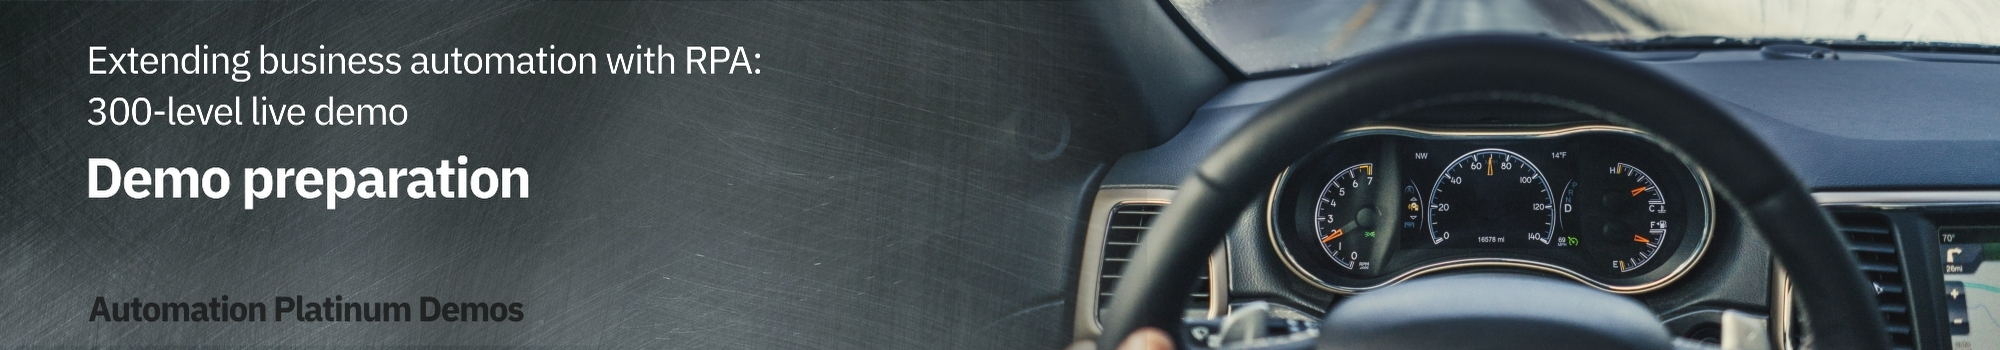
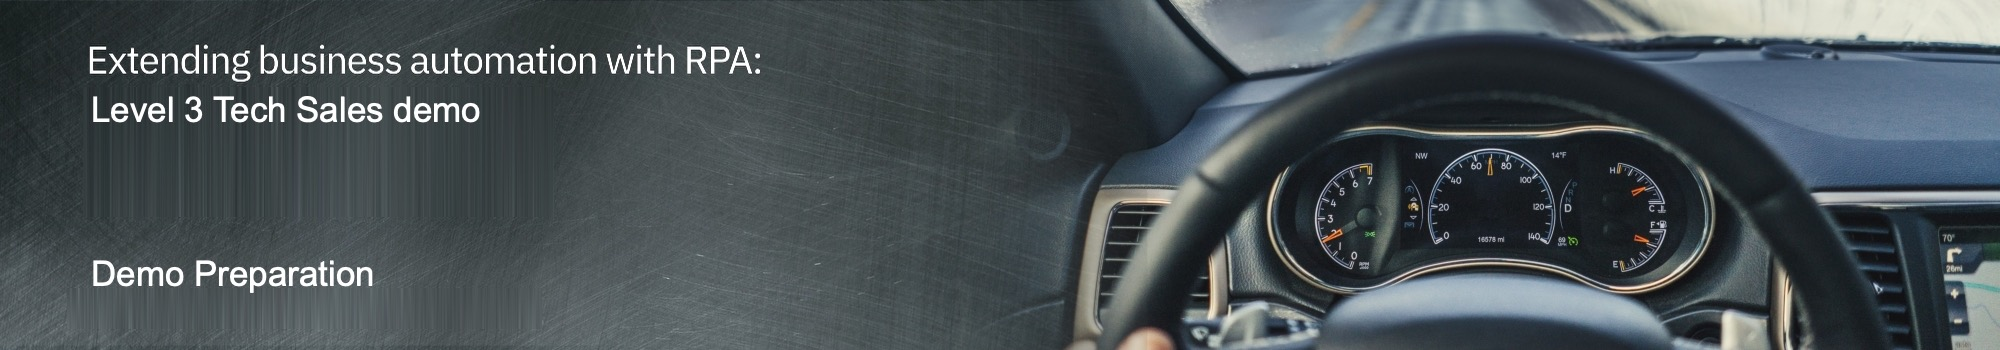
300-Level to Tech Sales Level 3

Changed region(s): [[0.031, 0.7429, 0.279, 0.9429], [0.031, 0.4571, 0.279, 0.6], [0.031, 0.2571, 0.248, 0.3714]]

diff --git a/docs/300-business-automation-extending-ba-with-rpa/demo-preparation.md b/docs/300-business-automation-extending-ba-with-rpa/demo-preparation.md
@@ -1,5 +1,5 @@
 ---
-title: Extending business automation with RPA 300-level live demo
+title: Extending business automation with RPA Tech Sales Level 3 demo
 layout: preparation
 banner: images/RPA_300_Prep_Banner.jpg
 ---
